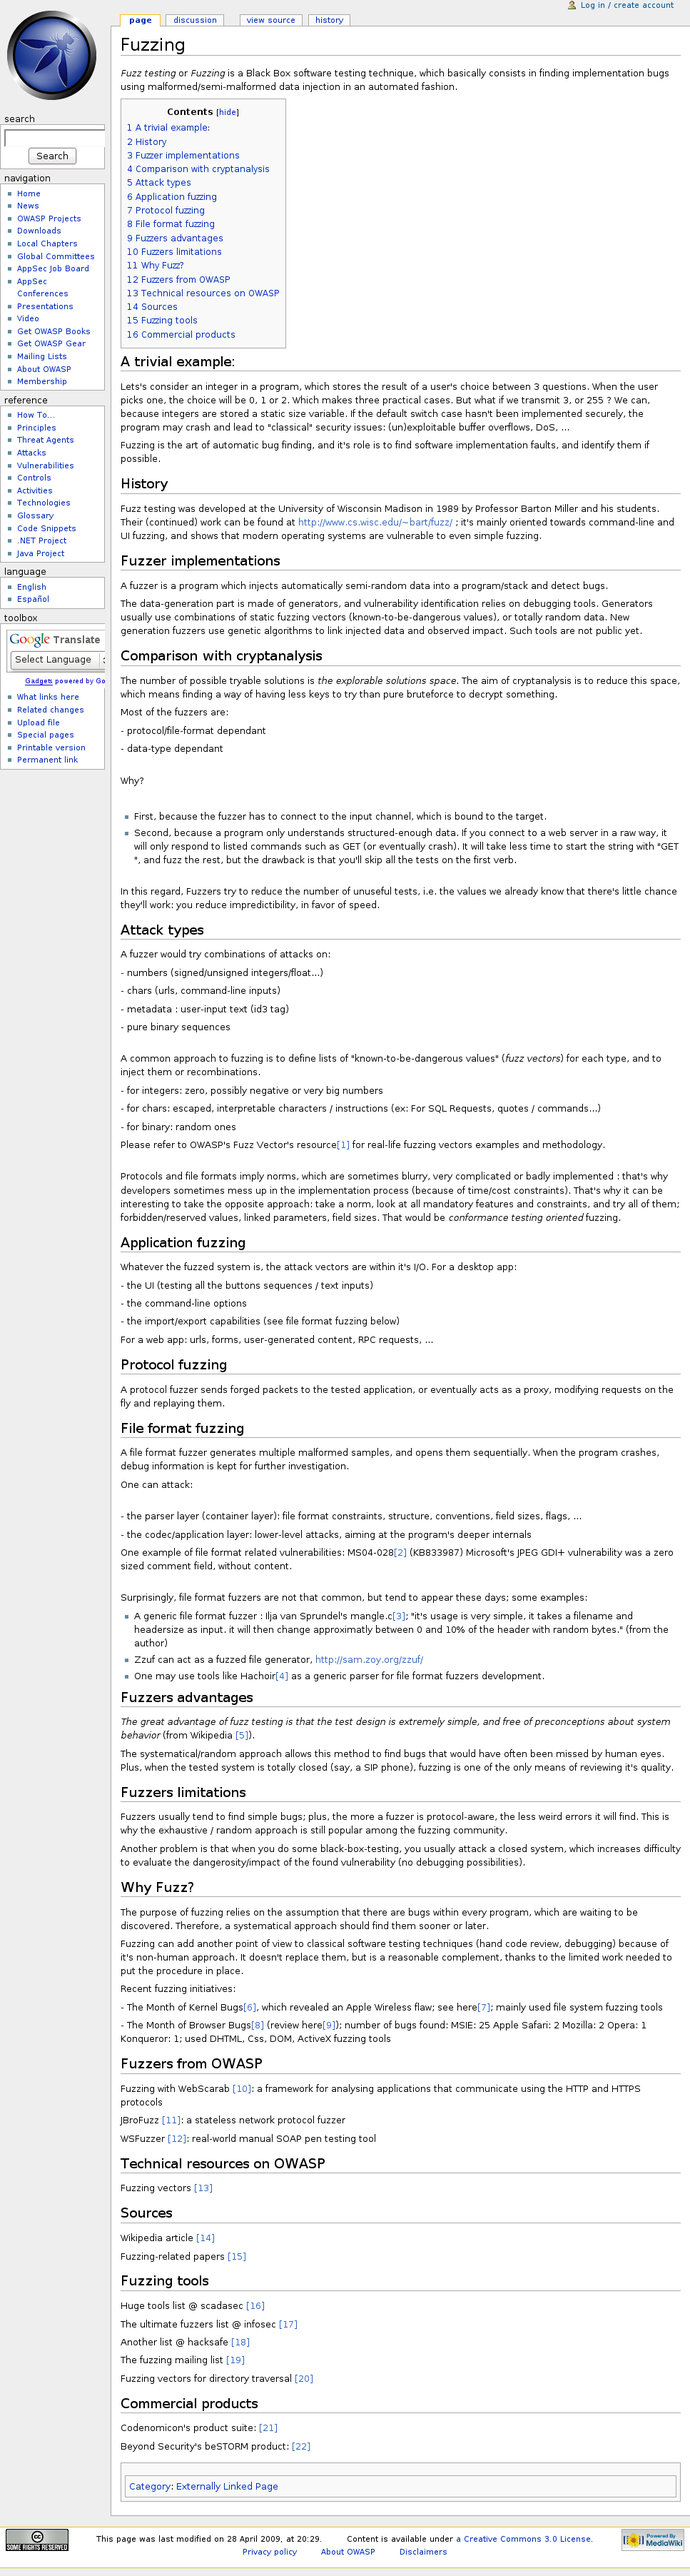
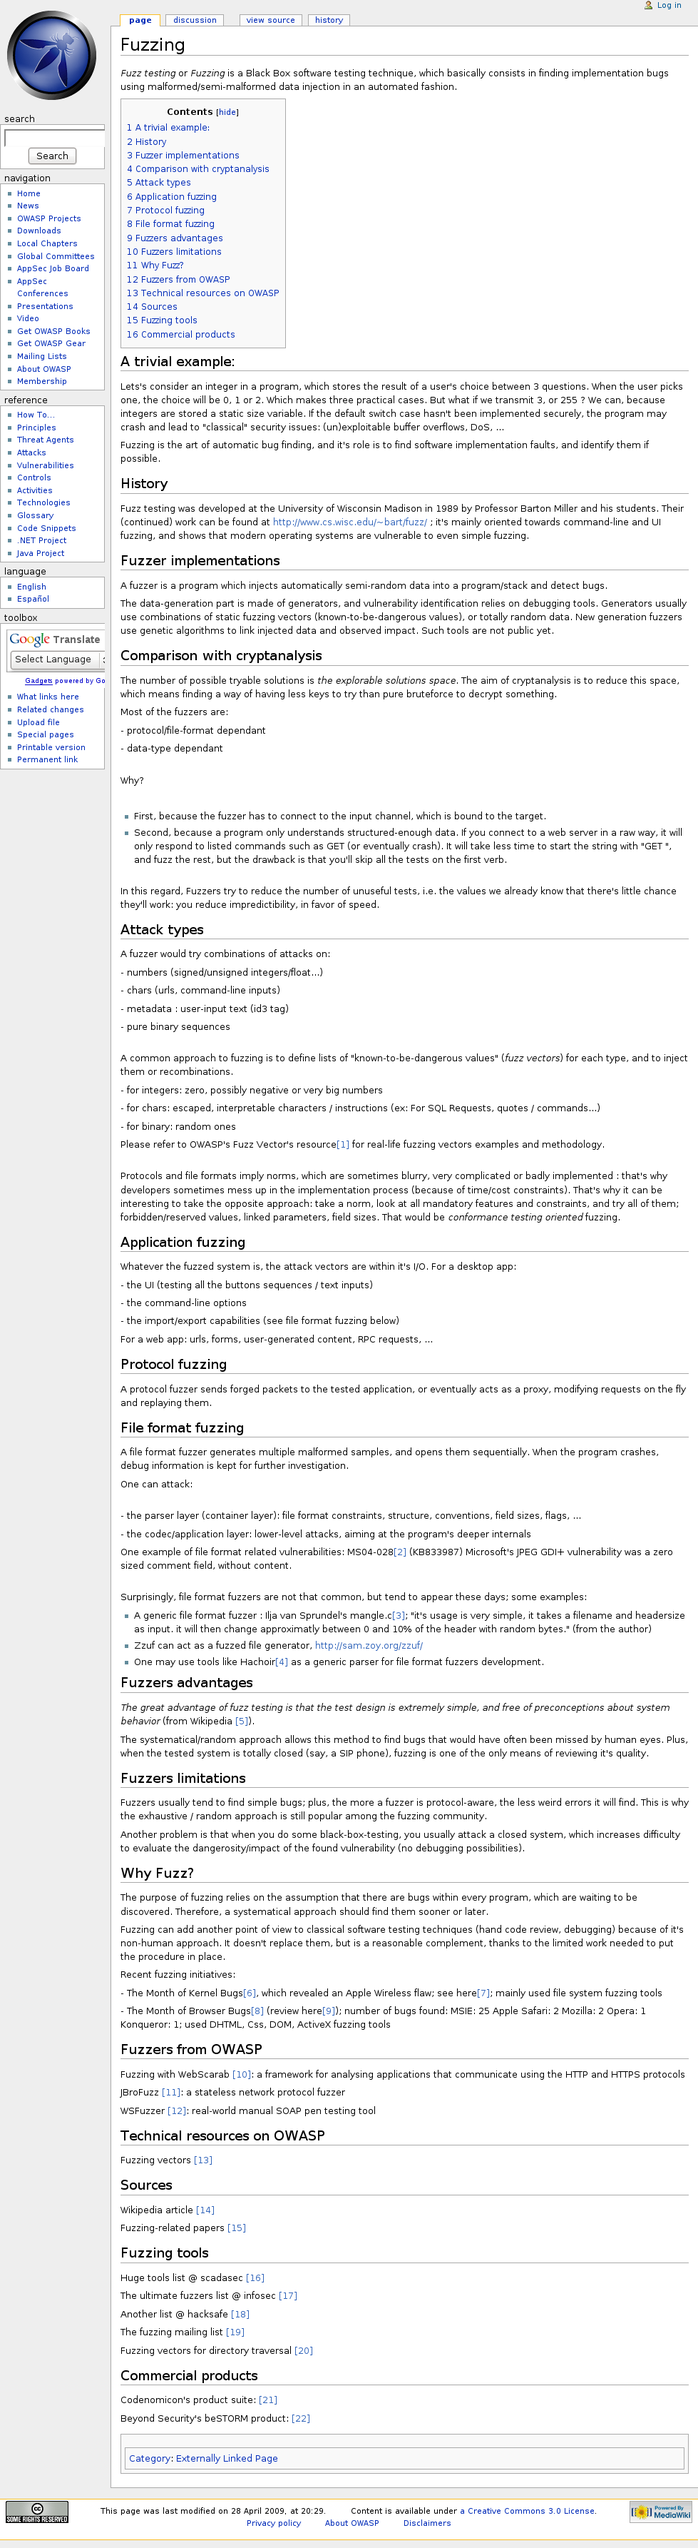
tweaks
git-svn-id: https://mxunit.googlecode.com/svn/mxunit-cfmeetups@1094 f92dd5c0-c831-0410-92f9-1b6876b37263

diff --git a/cfObjective2009SecurityTesting/code/fuzzingtests/thumbs/smoke/smoke.html b/cfObjective2009SecurityTesting/code/fuzzingtests/thumbs/smoke/smoke.html
@@ -269,7 +269,7 @@ Template argument size: 0/2097152 bytes
 Expensive parser function count: 0/100
 -->
 
-<!-- Saved in parser cache with key wiki1134:pcache:idhash:3888-0!1!0!!en!2!edit=0 and timestamp 20090516130042 -->
+<!-- Saved in parser cache with key wiki1134:pcache:idhash:3888-0!1!0!!en!2!edit=0 and timestamp 20090529060249 -->
 <div class="printfooter">
 Retrieved from "<a href="http://www.owasp.org/index.php/Fuzzing">http://www.owasp.org/index.php/Fuzzing</a>"</div>
 			<div id="catlinks"><div id="catlinks" class="catlinks"><div id="mw-normal-catlinks"><a href="/index.php/Special:Categories" title="Special:Categories">Category</a>: <span dir="ltr"><a href="/index.php/Category:Externally_Linked_Page" title="Category:Externally Linked Page">Externally Linked Page</a></span></div></div></div>			<!-- end content -->
@@ -293,7 +293,7 @@ Retrieved from "<a href="http://www.owasp.org/index.php/Fuzzing">http://www.owas
 		<h5>Personal tools</h5>
 		<div class="pBody">
 			<ul>
-				<li id="pt-login"><a href="/index.php?title=Special:UserLogin&amp;returnto=Fuzzing">Log in / create account</a></li>
+				<li id="pt-login"><a href="/index.php?title=Special:UserLogin&amp;returnto=Fuzzing">Log in</a></li>
 			</ul>
 		</div>
 	</div>
@@ -366,7 +366,7 @@ Retrieved from "<a href="http://www.owasp.org/index.php/Fuzzing">http://www.owas
 		<div class="portlet" id="p-tb">
 		<h5>Toolbox</h5>
 		<div class="pBody">
-		<script src="http://www.gmodules.com/ig/ifr?url=http://www.google.com/ig/modules/translatemypage.xml&amp;up_source_language=en&amp;w=160&amp;h=60&amp;title=&amp;border=&amp;output=js"></script><style>.ig_tbl_img .ig_smbluetext{font-family:arial,sans-serif;font-variant:normal;font-style:normal;word-spacing:normal;letter-spacing:normal;vertical-align:middle;text-transform:none;text-indent:0;line-height:normal;white-space:normal;color:#0000cc;font-size:9px;}.ig_tbl_img .ig_lgbluetext{font-family:arial,sans-serif;font-variant:normal;font-style:normal;word-spacing:normal;letter-spacing:normal;vertical-align:middle;text-transform:none;text-indent:0;line-height:normal;white-space:normal;color:#0000cc;font-size:12px;}.ig_tbl_img .ig_smbluelink, .ig_tbl_img .ig_smbluelink:link{font-family:arial,sans-serif;font-variant:normal;font-style:normal;word-spacing:normal;letter-spacing:normal;vertical-align:middle;text-transform:none;text-indent:0;line-height:normal;white-space:normal;color:#0000cc;font-size:9px;text-decoration:underline;}.ig_tbl_img .ig_lgbluelink, .ig_tbl_img .ig_lgbluelink:link{font-family:arial,sans-serif;font-variant:normal;font-style:normal;word-spacing:normal;letter-spacing:normal;vertical-align:middle;text-transform:none;text-indent:0;line-height:normal;white-space:normal;color:#0000cc;font-size:12px;text-decoration:underline;}.ig_tbl_line .ig_smbluetext{font-family:arial,sans-serif;font-variant:normal;font-style:normal;word-spacing:normal;letter-spacing:normal;vertical-align:middle;text-transform:none;text-indent:0;line-height:normal;white-space:normal;color:#0000cc;font-size:9px;}.ig_tbl_line .ig_lgbluetext{font-family:arial,sans-serif;font-variant:normal;font-style:normal;word-spacing:normal;letter-spacing:normal;vertical-align:middle;text-transform:none;text-indent:0;line-height:normal;white-space:normal;color:#0000cc;font-size:12px;}.ig_tbl_line .ig_smbluelink, .ig_tbl_line .ig_smbluelink:link{font-family:arial,sans-serif;font-variant:normal;font-style:normal;word-spacing:normal;letter-spacing:normal;vertical-align:middle;text-transform:none;text-indent:0;line-height:normal;white-space:normal;color:#0000cc;font-size:9px;text-decoration:underline;}.ig_tbl_line .ig_lgbluelink, .ig_tbl_line .ig_lgbluelink:link{font-family:arial,sans-serif;font-variant:normal;font-style:normal;word-spacing:normal;letter-spacing:normal;vertical-align:middle;text-transform:none;text-indent:0;line-height:normal;white-space:normal;color:#0000cc;font-size:12px;text-decoration:underline;}.ig_smbluelink:hover{font-family:arial,sans-serif;font-variant:normal;font-style:normal;word-spacing:normal;letter-spacing:normal;vertical-align:middle;text-transform:none;text-indent:0;line-height:normal;white-space:normal;color:#3366cc;font-size:9px;text-decoration:underline;}.ig_smbluelink:visited{font-family:arial,sans-serif;font-variant:normal;font-style:normal;word-spacing:normal;letter-spacing:normal;vertical-align:middle;text-transform:none;text-indent:0;line-height:normal;white-space:normal;color:#551a8b;font-size:9px;text-decoration:underline;}.ig_smbluelink:active{font-family:arial,sans-serif;font-variant:normal;font-style:normal;word-spacing:normal;letter-spacing:normal;vertical-align:middle;text-transform:none;text-indent:0;line-height:normal;white-space:normal;color:#ff0000;font-size:9px;text-decoration:underline;}.ig_lgbluelink:hover{font-family:arial,sans-serif;font-variant:normal;font-style:normal;word-spacing:normal;letter-spacing:normal;vertical-align:middle;text-transform:none;text-indent:0;line-height:normal;white-space:normal;color:#3366cc;font-size:12px;text-decoration:underline;}.ig_lgbluelink:visited{font-family:arial,sans-serif;font-variant:normal;font-style:normal;word-spacing:normal;letter-spacing:normal;vertical-align:middle;text-transform:none;text-indent:0;line-height:normal;white-space:normal;color:#551a8b;font-size:12px;text-decoration:underline;}.ig_lgbluelink:active{font-family:arial,sans-serif;font-variant:normal;font-style:normal;word-spacing:normal;letter-spacing:normal;vertical-align:middle;text-transform:none;text-indent:0;line-height:normal;white-space:normal;color:#ff0000;font-size:12px;text-decoration:underline;}</style><style>.ig_tbl_img table,.ig_tbl_img tr,.ig_tbl_img td,.ig_tbl_img a,.ig_tbl_img span,.ig_tbl_line table,.ig_tbl_line tr,.ig_tbl_line td,.ig_tbl_line a,.ig_tbl_line span,ig_reset{margin:0;padding:0;padding-left:0;padding-right:0;border:0;border-collapse:collapse;float:none;clear:none;width:auto;height:auto;background:transparent none;background-position:0%;font-family:arial,sans-serif;font-variant:normal;font-style:normal;word-spacing:normal;letter-spacing:normal;vertical-align:middle;text-transform:none;text-indent:0;line-height:1.0;white-space:normal;top:auto;bottom:auto;}</style><table class="ig_reset ig_tbl_line" width="160"><tbody><tr><td colspan="2" style="vertical-align: bottom; text-align: center; width: 100%;">  </td></tr><tr><td style="height: 2px;"> </td></tr><tr><td colspan="2"><iframe src="http://www.gmodules.com/ig/ifr?url=http://www.google.com/ig/modules/translatemypage.xml&amp;up_source_language=en&amp;w=160&amp;h=60&amp;title=&amp;border=&amp;source=http%3A%2F%2Fwww.owasp.org%2Findex.php%2FFuzzing" style="display: block;" frameborder="0" height="60" scrolling="no" width="160"></iframe></td></tr><tr><td style="text-align: left;"></td><td style="text-align: right; vertical-align: middle; height: 18px;"><div id="right_1212553746"><a target="_top" style="font-size: 10px; color: rgb(0, 0, 204); text-decoration: underline;" href="http://www.google.com/webmasters/gadgets.html">Gadgets</a><span style="font-size: 10px; color: rgb(0, 0, 204);"> powered by Google</span></div></td></tr></tbody></table>
+		<script src="http://www.gmodules.com/ig/ifr?url=http://www.google.com/ig/modules/translatemypage.xml&amp;up_source_language=en&amp;w=160&amp;h=60&amp;title=&amp;border=&amp;output=js"></script><style>.ig_tbl_img .ig_smbluetext{font-family:arial,sans-serif;font-variant:normal;font-style:normal;word-spacing:normal;letter-spacing:normal;vertical-align:middle;text-transform:none;text-indent:0;line-height:normal;white-space:normal;color:#0000cc;font-size:9px;}.ig_tbl_img .ig_lgbluetext{font-family:arial,sans-serif;font-variant:normal;font-style:normal;word-spacing:normal;letter-spacing:normal;vertical-align:middle;text-transform:none;text-indent:0;line-height:normal;white-space:normal;color:#0000cc;font-size:12px;}.ig_tbl_img .ig_smbluelink, .ig_tbl_img .ig_smbluelink:link{font-family:arial,sans-serif;font-variant:normal;font-style:normal;word-spacing:normal;letter-spacing:normal;vertical-align:middle;text-transform:none;text-indent:0;line-height:normal;white-space:normal;color:#0000cc;font-size:9px;text-decoration:underline;}.ig_tbl_img .ig_lgbluelink, .ig_tbl_img .ig_lgbluelink:link{font-family:arial,sans-serif;font-variant:normal;font-style:normal;word-spacing:normal;letter-spacing:normal;vertical-align:middle;text-transform:none;text-indent:0;line-height:normal;white-space:normal;color:#0000cc;font-size:12px;text-decoration:underline;}.ig_tbl_line .ig_smbluetext{font-family:arial,sans-serif;font-variant:normal;font-style:normal;word-spacing:normal;letter-spacing:normal;vertical-align:middle;text-transform:none;text-indent:0;line-height:normal;white-space:normal;color:#0000cc;font-size:9px;}.ig_tbl_line .ig_lgbluetext{font-family:arial,sans-serif;font-variant:normal;font-style:normal;word-spacing:normal;letter-spacing:normal;vertical-align:middle;text-transform:none;text-indent:0;line-height:normal;white-space:normal;color:#0000cc;font-size:12px;}.ig_tbl_line .ig_smbluelink, .ig_tbl_line .ig_smbluelink:link{font-family:arial,sans-serif;font-variant:normal;font-style:normal;word-spacing:normal;letter-spacing:normal;vertical-align:middle;text-transform:none;text-indent:0;line-height:normal;white-space:normal;color:#0000cc;font-size:9px;text-decoration:underline;}.ig_tbl_line .ig_lgbluelink, .ig_tbl_line .ig_lgbluelink:link{font-family:arial,sans-serif;font-variant:normal;font-style:normal;word-spacing:normal;letter-spacing:normal;vertical-align:middle;text-transform:none;text-indent:0;line-height:normal;white-space:normal;color:#0000cc;font-size:12px;text-decoration:underline;}.ig_smbluelink:hover{font-family:arial,sans-serif;font-variant:normal;font-style:normal;word-spacing:normal;letter-spacing:normal;vertical-align:middle;text-transform:none;text-indent:0;line-height:normal;white-space:normal;color:#3366cc;font-size:9px;text-decoration:underline;}.ig_smbluelink:visited{font-family:arial,sans-serif;font-variant:normal;font-style:normal;word-spacing:normal;letter-spacing:normal;vertical-align:middle;text-transform:none;text-indent:0;line-height:normal;white-space:normal;color:#551a8b;font-size:9px;text-decoration:underline;}.ig_smbluelink:active{font-family:arial,sans-serif;font-variant:normal;font-style:normal;word-spacing:normal;letter-spacing:normal;vertical-align:middle;text-transform:none;text-indent:0;line-height:normal;white-space:normal;color:#ff0000;font-size:9px;text-decoration:underline;}.ig_lgbluelink:hover{font-family:arial,sans-serif;font-variant:normal;font-style:normal;word-spacing:normal;letter-spacing:normal;vertical-align:middle;text-transform:none;text-indent:0;line-height:normal;white-space:normal;color:#3366cc;font-size:12px;text-decoration:underline;}.ig_lgbluelink:visited{font-family:arial,sans-serif;font-variant:normal;font-style:normal;word-spacing:normal;letter-spacing:normal;vertical-align:middle;text-transform:none;text-indent:0;line-height:normal;white-space:normal;color:#551a8b;font-size:12px;text-decoration:underline;}.ig_lgbluelink:active{font-family:arial,sans-serif;font-variant:normal;font-style:normal;word-spacing:normal;letter-spacing:normal;vertical-align:middle;text-transform:none;text-indent:0;line-height:normal;white-space:normal;color:#ff0000;font-size:12px;text-decoration:underline;}</style><style>.ig_tbl_img table,.ig_tbl_img tr,.ig_tbl_img td,.ig_tbl_img a,.ig_tbl_img span,.ig_tbl_line table,.ig_tbl_line tr,.ig_tbl_line td,.ig_tbl_line a,.ig_tbl_line span,ig_reset{margin:0;padding:0;padding-left:0;padding-right:0;border:0;border-collapse:collapse;float:none;clear:none;width:auto;height:auto;background:transparent none;background-position:0%;font-family:arial,sans-serif;font-variant:normal;font-style:normal;word-spacing:normal;letter-spacing:normal;vertical-align:middle;text-transform:none;text-indent:0;line-height:1.0;white-space:normal;top:auto;bottom:auto;}</style><table class="ig_reset ig_tbl_line" width="160"><tbody><tr><td colspan="2" style="vertical-align: bottom; text-align: center; width: 100%;">  </td></tr><tr><td style="height: 2px;"> </td></tr><tr><td colspan="2"><iframe src="http://www.gmodules.com/ig/ifr?url=http://www.google.com/ig/modules/translatemypage.xml&amp;up_source_language=en&amp;w=160&amp;h=60&amp;title=&amp;border=&amp;source=http%3A%2F%2Fwww.owasp.org%2Findex.php%2FFuzzing" style="display: block;" frameborder="0" height="60" scrolling="no" width="160"></iframe></td></tr><tr><td style="text-align: left;"></td><td style="text-align: right; vertical-align: middle; height: 18px;"><div id="right_1462534547"><a target="_top" style="font-size: 10px; color: rgb(0, 0, 204); text-decoration: underline;" href="http://www.google.com/webmasters/gadgets.html">Gadgets</a><span style="font-size: 10px; color: rgb(0, 0, 204);"> powered by Google</span></div></td></tr></tbody></table>
 			<ul>
 				<li id="t-whatlinkshere"><a href="/index.php/Special:WhatLinksHere/Fuzzing">What links here</a></li>
 				<li id="t-recentchangeslinked"><a href="/index.php/Special:RecentChangesLinked/Fuzzing">Related changes</a></li>
@@ -393,4 +393,4 @@ Retrieved from "<a href="http://www.owasp.org/index.php/Fuzzing">http://www.owas
 	
 		<script type="text/javascript">if (window.runOnloadHook) runOnloadHook();</script>
 </div>
-<!-- Served in 0.098 secs. --></body><canvas height="3608" width="967" style="display: none;" id="fxdriver-screenshot-canvas"></canvas></html>
+<!-- Served in 0.117 secs. --></body><canvas height="3570" width="979" style="display: none;" id="fxdriver-screenshot-canvas"></canvas></html>
